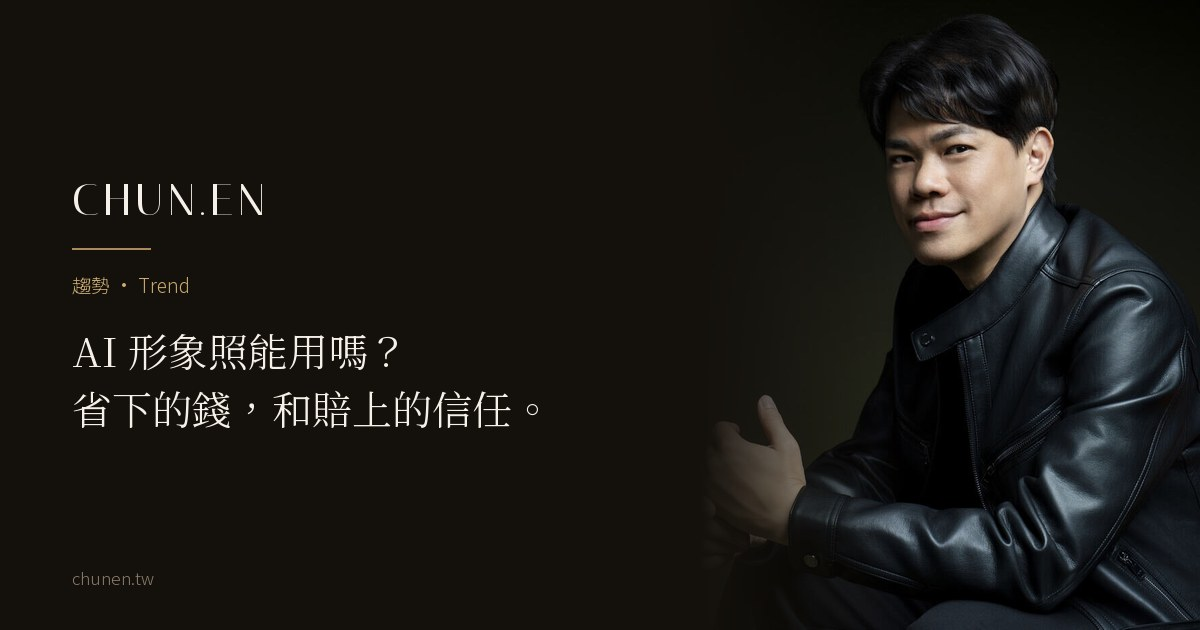
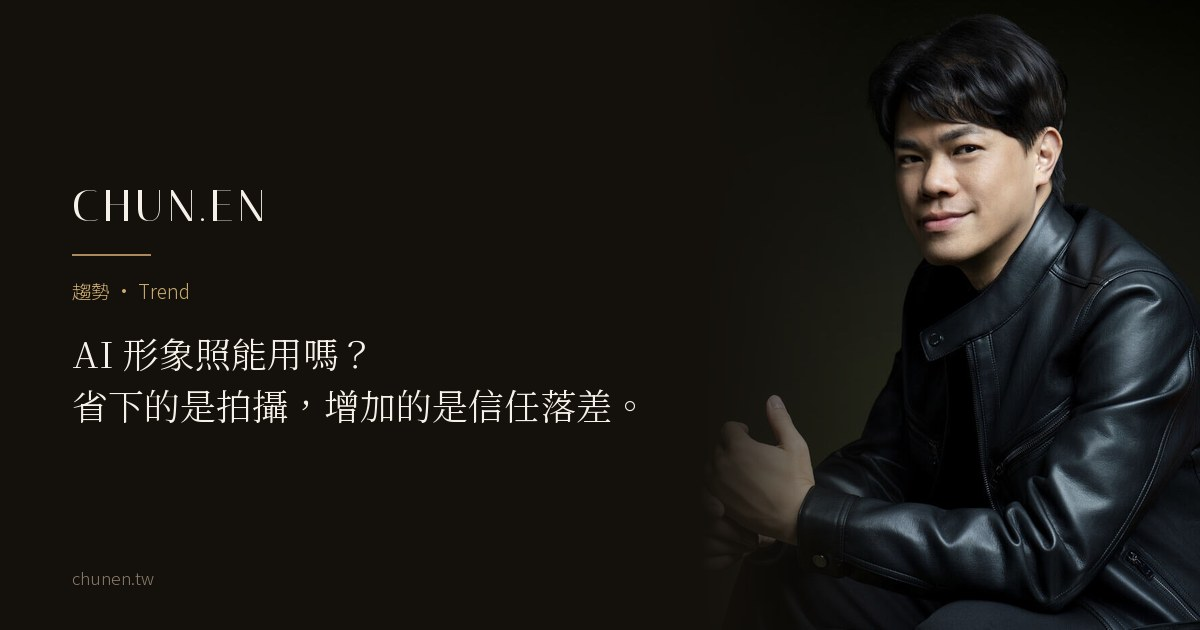
journal(ai-portrait): 把「真實升值」升級成獨立段落，H1 改用更精準的對比
依外部審閱建議調整，但兩處與建議不同，理由如下。

一、審閱點名要修的兩句，線上版本沒有
「在 2026 年這個 AI 鋪天蓋地的時代」與「證明我是個有血有肉、真實存在且值得
信任的真人」，逐字查過都是 0 處，應是引用到舊草稿。這兩項不做。

二、沒有照建議把「真實溢價」整個論點搬進來
排程 8/24 的 authenticity-premium 就是這個題目（H1「AI 形象照越普及，真實越
值錢：數位分身時代的『真實溢價』」，H2「訊號經濟學：完美為什麼會貶值」）。
審閱作者只看得到線上那一篇，不知道有這支專文。全照做會讓 AI 篇先把論點講完，
三週後專文上架變重播，兩篇還互搶「真實溢價」關鍵字。
改成分工：AI 篇是實用判斷題（什麼時候用 AI），只把原本埋在表格後的那句升級
成一個收束段落，推論讓給專文並加內鏈導過去。

實際改動
- 新增 H2「當完美變得便宜，真實開始變貴」，保留原本較口語的引擎句
  「當人人都能生成完美的臉，見了面還跟照片一樣的人，反而變稀有了」，
  沒有換成審閱那版三個並列子句的寫法
- H1 改「省下的是拍攝，增加的是信任落差」（審閱備選三）。原本「賠上的信任」
  預設了結果，而文章其實沒有全盤否定 AI，表格裡明講哪些場合可以用。
  沒有採用審閱最推薦的「當完美變得便宜，真實開始升值」——那句正好撞
  authenticity-premium 的題目，兩篇 H1 會變成近義句。
- keypoints 第一點改「AI 能生成專業感，但那張臉不一定接得住本人」
- title／og:title／twitter:title／schema headline／麵包屑第三層同步
- 三篇相關閱讀錨文字＋journal 列表頁卡片標題同步（authenticity-premium／
  beyond-filters-third-path／first-impression-research）
- og 分享卡重產

diff --git a/journal/ai-portrait-honest-take.html b/journal/ai-portrait-honest-take.html
@@ -3,14 +3,14 @@
 <head>
   <meta charset="UTF-8" />
   <meta name="viewport" content="width=device-width, initial-scale=1.0, viewport-fit=cover" />
-  <title>AI 形象照能用嗎？省下的錢，和賠上的信任｜CHUN.EN 觀點</title>
+  <title>AI 形象照能用嗎？省下的是拍攝，增加的是信任落差｜CHUN.EN 觀點</title>
   <meta name="description" content="AI 生成形象照幾分鐘就有、成本極低，它到底能不能用？誠實的答案：看場合。AI 適合虛擬形象與暫用頭貼；但在商業信任場景，照片要能跟你本人對得起來，這件事 AI 給不了。" />
   <meta name="theme-color" content="#14100B" />
   <link rel="icon" href="/favicon.ico" sizes="48x48" />
   <link rel="icon" href="/favicon-32.png" type="image/png" sizes="32x32" />
   <link rel="apple-touch-icon" href="/apple-touch-icon.png" />
   <link rel="canonical" href="https://chunen.tw/journal/ai-portrait-honest-take.html" />
-  <meta property="og:title" content="AI 形象照能用嗎？省下的錢，和賠上的信任" />
+  <meta property="og:title" content="AI 形象照能用嗎？省下的是拍攝，增加的是信任落差" />
   <meta property="og:description" content="AI 能生成一張完美的照片，卻無法替你決定：要讓世界認識你的哪一面。" />
   <meta property="og:image" content="https://chunen.tw/assets/og/ai-portrait-honest-take-og.jpg" />
   <meta property="og:image:width" content="1200" />
@@ -19,7 +19,7 @@
   <meta property="og:type" content="article" />
   <meta property="og:locale" content="zh_TW" />
   <meta name="twitter:card" content="summary_large_image" />
-  <meta name="twitter:title" content="AI 形象照能用嗎？省下的錢，和賠上的信任" />
+  <meta name="twitter:title" content="AI 形象照能用嗎？省下的是拍攝，增加的是信任落差" />
   <meta name="twitter:description" content="AI 能生成一張完美的照片，卻無法替你決定：要讓世界認識你的哪一面。" />
   <meta name="twitter:image" content="https://chunen.tw/assets/og/ai-portrait-honest-take-og.jpg" />
   <link rel="preconnect" href="https://fonts.googleapis.com" />
@@ -73,7 +73,7 @@
     <header style="padding: clamp(9rem, 16vh, 11rem) 0 clamp(2rem, 4vh, 3rem);">
       <div class="wrap article-wrap">
         <p class="hero-eyebrow rv">趨勢 · Trend</p>
-        <h1 class="rv rv-d1" style="font-weight: 300; font-size: clamp(1.9rem, 4.4vw, 3.2rem); line-height: 1.4; margin-top: 1rem;">AI 形象照能用嗎？<br>省下的錢，和<em style="font-style:normal;color:var(--gold-light);">賠上的信任</em>。</h1>
+        <h1 class="rv rv-d1" style="font-weight: 300; font-size: clamp(1.9rem, 4.4vw, 3.2rem); line-height: 1.4; margin-top: 1rem;">AI 形象照能用嗎？<br>省下的是拍攝，增加的是<em style="font-style:normal;color:var(--gold-light);">信任落差</em>。</h1>
         <p class="article-meta rv rv-d2">CHUN.EN 觀點 · 2026 · 閱讀約 5 分鐘</p>
       </div>
     </header>
@@ -86,7 +86,7 @@
       <div class="keypoints rv">
         <p class="kp-t">In This Article · 本文重點</p>
         <ul>
-          <li>AI 能給你一張照片，給不了別人對你的信任</li>
+          <li>AI 能生成專業感，但那張臉不一定接得住本人</li>
           <li>AI 傾向生成好看的大眾臉，商業形象要的是辨識度</li>
           <li>分場合誠實建議：什麼時候用 AI、什麼時候拍真的</li>
         </ul>
@@ -119,7 +119,10 @@
           </tbody>
         </table>
         </div>
-        <p>AI 反而讓真實升值了：<strong>當人人都能生成完美的臉，見了面還跟照片一樣的人，反而變稀有了。</strong>照片與本人一致，正在變成一種競爭力。</p>
+        <h2>當完美變得便宜，<em>真實開始變貴</em></h2>
+        <p>過去拍照，多半是為了讓自己在網路上看起來更專業一點。</p>
+        <p>但當一張精緻、對稱、挑不出毛病的臉幾分鐘就能生出來，實體拍攝要處理的事情也跟著換了：<strong>當人人都能生成完美的臉，見了面還跟照片一樣的人，反而變稀有了。</strong></p>
+        <p>真實不等於不修圖，也不是要跟工具作對。它指的是照片裡的五官、氣質、年齡與姿態，在真正見面時還接得住，不必再解釋一次。這件事正在從審美偏好變成一種競爭力，背後的道理我們另外寫了一篇：<a href="authenticity-premium.html">當完美可以量產，稀缺的是什麼</a>。</p>
 
         <h2>按下生成之前，先問<em>一題</em></h2>
         <p>這張照片，將來要用來讓誰相信你？</p>
@@ -178,7 +181,7 @@
   {
     "@context": "https://schema.org",
     "@type": "Article",
-    "headline": "AI 形象照能用嗎？省下的錢，和賠上的信任",
+    "headline": "AI 形象照能用嗎？省下的是拍攝，增加的是信任落差",
     "description": "AI 能生成一張完美的照片，卻無法替你決定：要讓世界認識你的哪一面。",
     "image": "https://chunen.tw/assets/gallery/works/02-1400.jpg",
     "author": {"@type": "Person", "@id": "https://chunen.tw/author/zoey-wu.html#zoey", "name": "吳惇恩", "alternateName": "Zoey Wu", "jobTitle": "Founder & Brand Director", "image": "https://chunen.tw/assets/images/zoey-author-640.jpg", "url": "https://chunen.tw/author/zoey-wu.html"},
@@ -223,7 +226,7 @@
       {
         "@type": "ListItem",
         "position": 3,
-        "name": "AI 形象照能用嗎？省下的錢，和賠上的信任",
+        "name": "AI 形象照能用嗎？省下的是拍攝，增加的是信任落差",
         "item": "https://chunen.tw/journal/ai-portrait-honest-take.html"
       }
     ]

diff --git a/journal/first-impression-research.html b/journal/first-impression-research.html
@@ -154,7 +154,7 @@
         <p class="related-t">相關閱讀 · Related</p>
         <a href="positioning-decides-portrait.html">為什麼定位與造型，決定了一張形象照的成敗</a>
         <a href="executive-portrait-trust.html">企業主管形象照的信任訊號</a>
-        <a href="ai-portrait-honest-take.html">AI 形象照能用嗎？省下的錢，和賠上的信任</a>
+        <a href="ai-portrait-honest-take.html">AI 形象照能用嗎？省下的是拍攝，增加的是信任落差</a>
       </div>
 
       <p class="rv" style="margin-top: 2.5rem;"><a href="/journal/" style="color: var(--muted-bright); font-size: 0.85rem; letter-spacing: 0.1em;">← 回到專欄</a></p>

diff --git a/journal/index.html b/journal/index.html
@@ -147,7 +147,7 @@
           <div class="jrow-media"><img src="../assets/gallery/works/02-1400.jpg" alt="AI 形象照與真實影像的信任差異" loading="lazy" /></div>
           <div class="jrow-body">
             <span class="jcard-cat">趨勢 · Trend</span>
-            <h3>AI 形象照能用嗎？省下的錢，和賠上的信任</h3>
+            <h3>AI 形象照能用嗎？省下的是拍攝，增加的是信任落差</h3>
             <p>AI 適合虛擬形象與暫時頂著用的頭貼；但在商業信任的場合，照片要能跟你本人對得起來，而這件事 AI 給不了。</p>
             <span class="jcard-meta">2026 · 閱讀約 3 分鐘</span>
           </div>

diff --git a/journal/beyond-filters-third-path.html b/journal/beyond-filters-third-path.html
@@ -156,7 +156,7 @@
       <div class="related rv">
         <p class="related-t">相關閱讀 · Related</p>
         <a href="authenticity-premium.html">數位分身時代的「真實溢價」</a>
-        <a href="ai-portrait-honest-take.html">AI 形象照能用嗎？省下的錢，和賠上的信任</a>
+        <a href="ai-portrait-honest-take.html">AI 形象照能用嗎？省下的是拍攝，增加的是信任落差</a>
         <a href="natural-look-by-design.html">「拍自然一點」是最貴的一句話：為什麼自然需要設計</a>
       </div>
 

diff --git a/journal/authenticity-premium.html b/journal/authenticity-premium.html
@@ -151,7 +151,7 @@
 
       <div class="related rv">
         <p class="related-t">相關閱讀 · Related</p>
-        <a href="ai-portrait-honest-take.html">AI 形象照能用嗎？省下的錢，和賠上的信任</a>
+        <a href="ai-portrait-honest-take.html">AI 形象照能用嗎？省下的是拍攝，增加的是信任落差</a>
         <a href="first-impression-research.html">0.1 秒定生死？第一印象研究真正說了什麼</a>
         <a href="portrait-vs-personal-brand.html">形象照 vs 個人品牌形象照，差在哪</a>
       </div>
